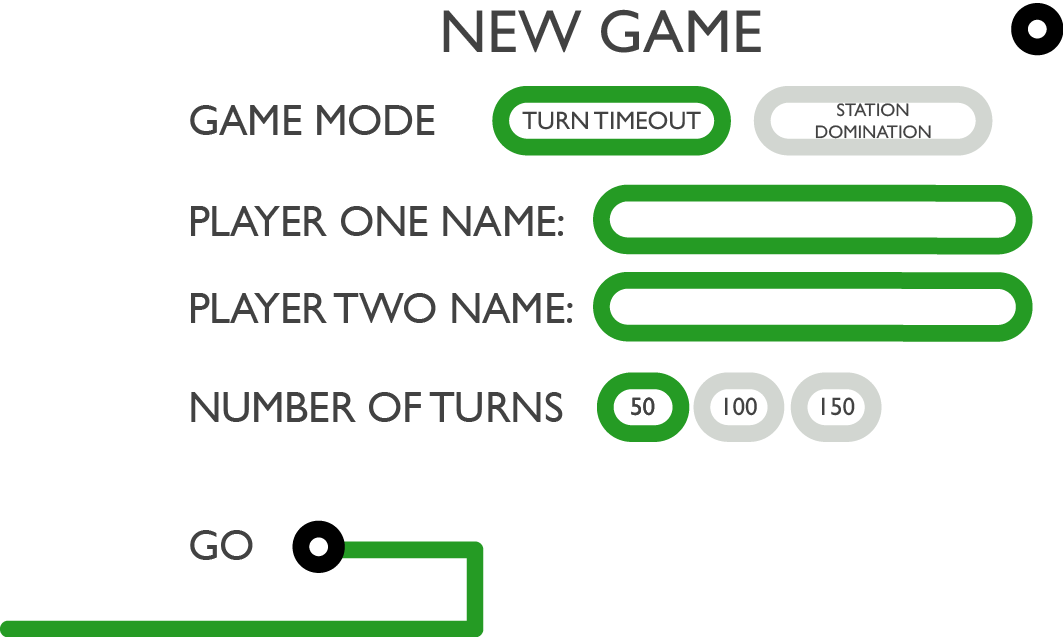
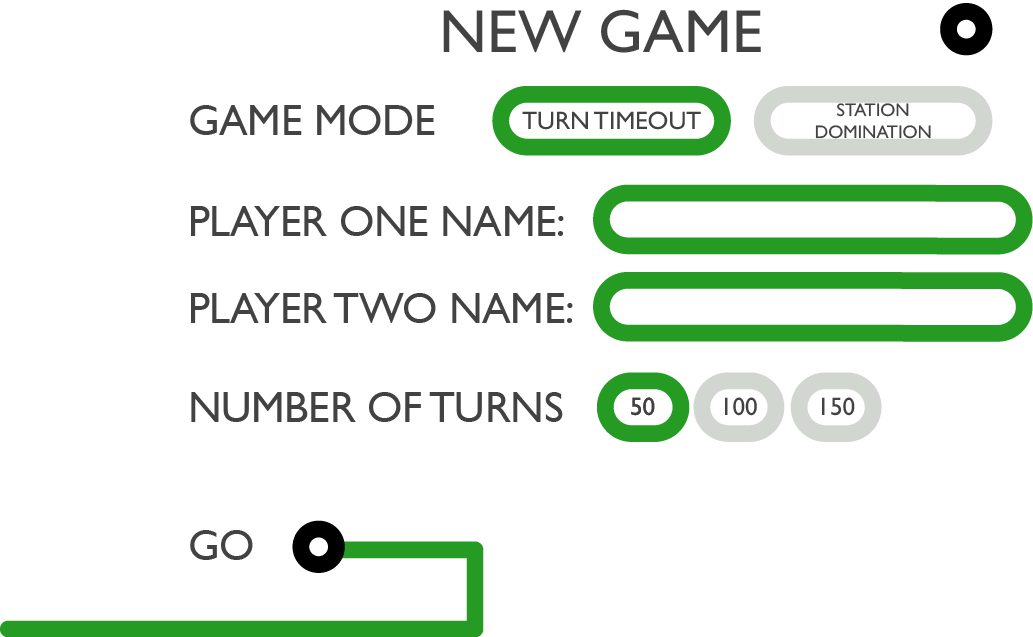
q

diff --git a/core/src/com/TeamHEC/LocomotionCommotion/Screens/Actors/TempNG.java b/core/src/com/TeamHEC/LocomotionCommotion/Screens/Actors/TempNG.java
@@ -11,7 +11,7 @@ import com.badlogic.gdx.scenes.scene2d.InputListener;
 public class TempNG extends Actor {
 
 	Texture texture = new Texture(Gdx.files.internal("newgamescreen.png"));
-	float actorX = -1 ,actorY = 1050+50;
+	float actorX = -100 ,actorY = 1050+50;
 	public boolean started = false;
 
 	public TempNG(){
